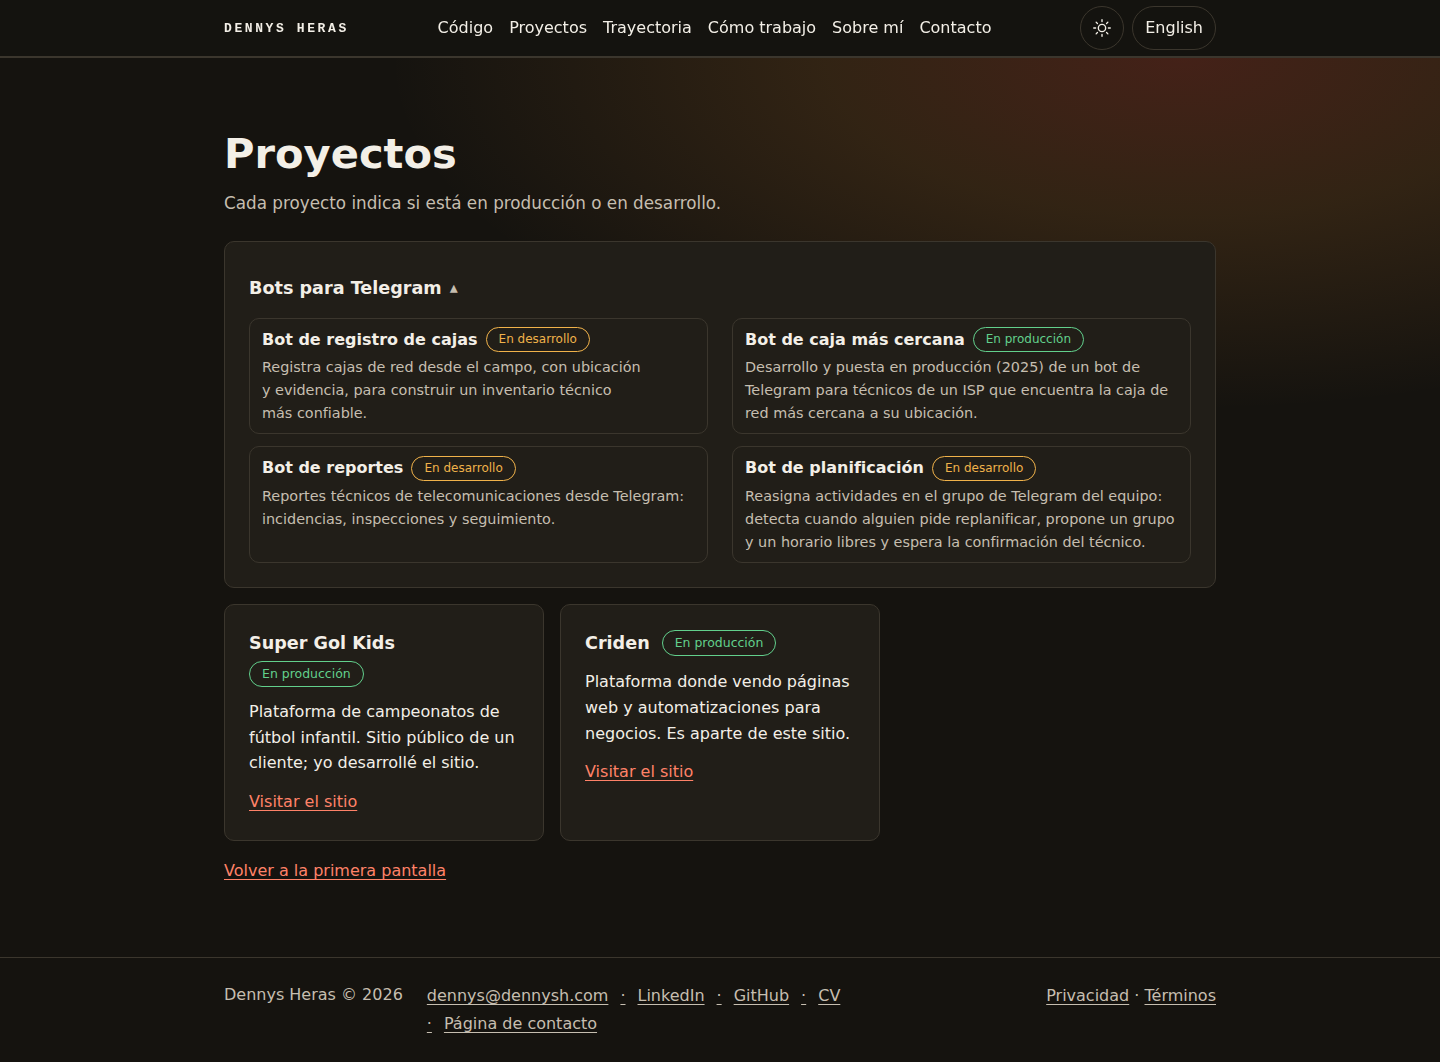
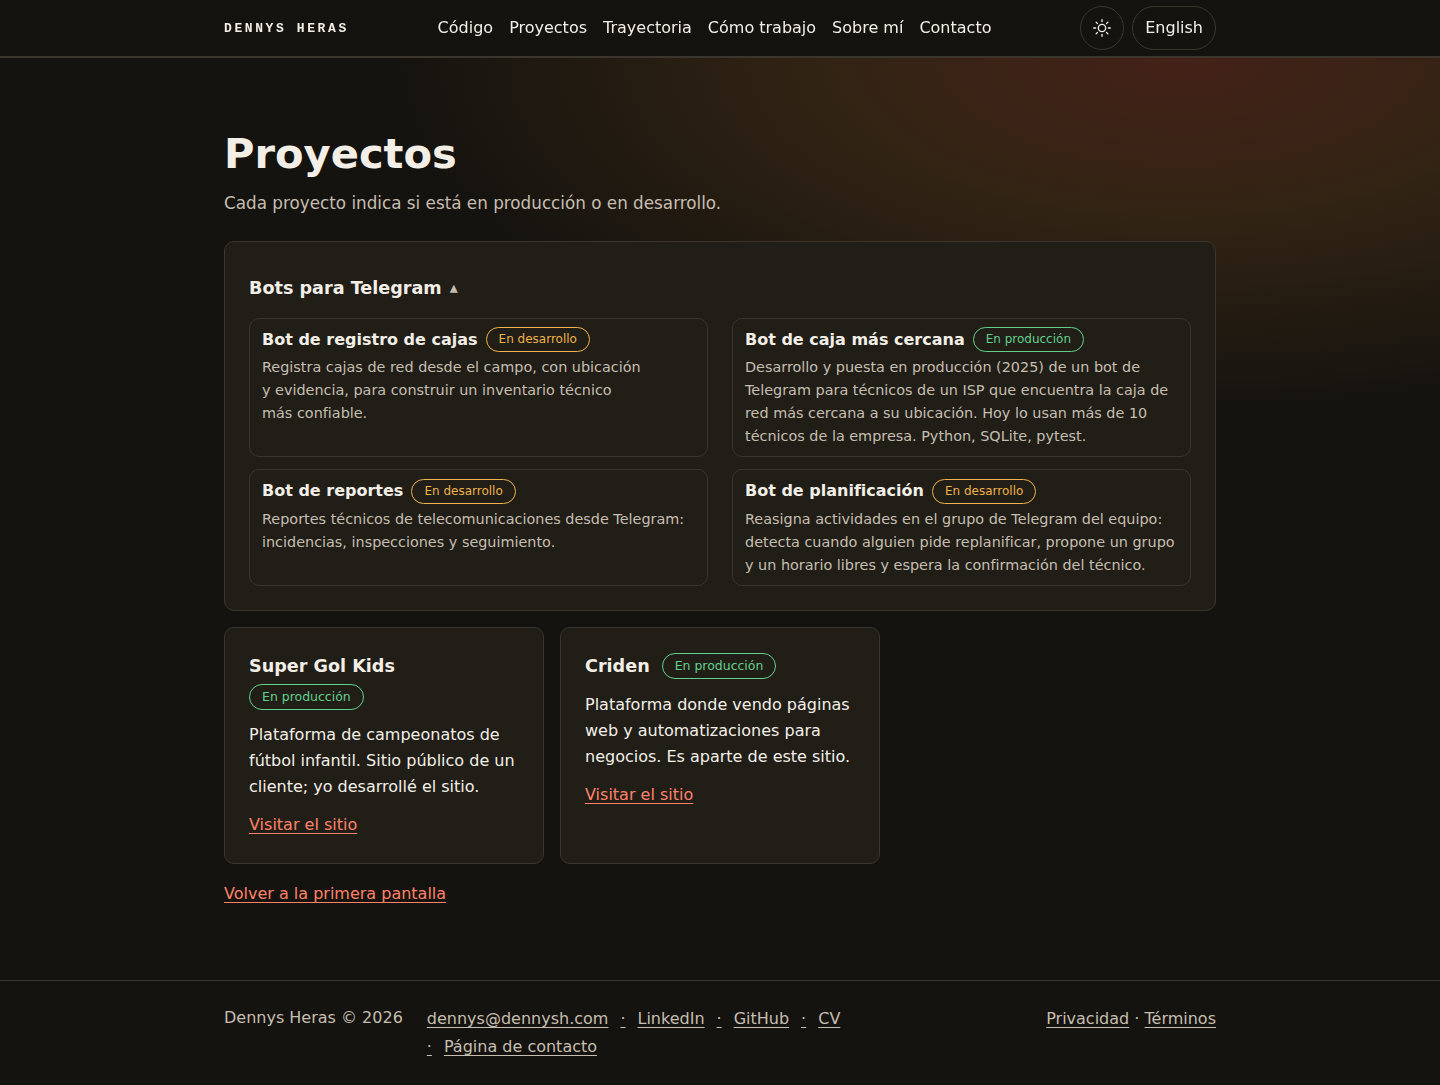
✏ texto: Proyectos muestra el texto completo de cada bot (dato de los técnicos) y «de IA»/«AI agents» no se separan en el titular; pruebas, capturas y resumen

diff --git a/tests/e2e/sections.spec.js b/tests/e2e/sections.spec.js
@@ -91,7 +91,16 @@ test('Proyectos: Bots para Telegram (desplegable), Super Gol Kids y Criden en pr
   await expect(page.locator('main')).not.toContainText(/contable|football manager|f[uú]tbol manager|hardlock|pr[óo]ximamente/i)
 })
 
-test('Bots para Telegram: abierto al cargar con los cuatro bots en orden, un renglón por bot, sin hueco; se cierra y abre con Enter, Espacio y clic sin mover lo de arriba', async ({ page }) => {
+test('Proyectos: el Bot de caja más cercana muestra su texto completo, con el dato de los técnicos (es y en)', async ({ page }) => {
+  for (const [url, frase, bot] of [['/es/proyectos/', 'Hoy lo usan más de 10 técnicos de la empresa.', 'Bot de caja más cercana'], ['/en/projects/', 'Today more than 10 technicians at the company use it.', 'Nearest box bot']]) {
+    await page.goto(url)
+    const li = page.locator('details.bots li', { hasText: bot })
+    await expect(li).toContainText(frase)
+    await expect(li.locator('.bot-text')).toBeVisible()
+  }
+})
+
+test('Bots para Telegram: abierto al cargar con los cuatro bots en orden, con su texto completo, sin hueco; se cierra y abre con Enter, Espacio y clic sin mover lo de arriba', async ({ page }) => {
   await page.goto('/es/proyectos/')
   const d = page.locator('details.bots')
   const items = d.locator('li strong')
@@ -107,7 +116,7 @@ test('Bots para Telegram: abierto al cargar con los cuatro bots en orden, un ren
     expect(badge.y).toBeGreaterThanOrEqual(box.y); expect(badge.y + badge.height).toBeLessThanOrEqual(box.y + box.height)
   }
   await expect(d.locator('li').nth(3)).toContainText('Reasigna actividades en el grupo de Telegram del equipo')
-  for (const t of await d.locator('.bot-text').allTextContents()) expect(t.split(/[.!?]\s/).length).toBe(1) // un renglón (una frase) por bot
+  await expect(d.locator('li').nth(1).locator('.bot-text')).toContainText('Hoy lo usan más de 10 técnicos de la empresa.') // en Proyectos cada bot muestra su texto completo (la vista previa de la portada sigue en una línea)
   // la tarjeta ocupa la fila entera: ninguna tarjeta vecina queda más baja que su contenido
   const cards = await page.locator('.cards > .card').evaluateAll((els) => els.map((e) => { const r = e.getBoundingClientRect(); return { x: r.x, w: r.width, h: r.height } }))
   expect(cards[0].w).toBeGreaterThan(cards[1].w)

diff --git a/tests/unit/first-screen.test.js b/tests/unit/first-screen.test.js
@@ -20,7 +20,7 @@ describe('primera pantalla: marcado sin JavaScript (TH11, AC-H2, AC-H6)', () => 
 
     it(`(${lang}) un solo h1: la frase única, sin titular; y las dos líneas del perfil`, () => {
       expect(out.match(/<h1\b/g)).toHaveLength(1)
-      expect(out).toContain(`<h1 id="hero-h">${esc(c.home.phrase)}</h1>`)
+      expect(out).toContain(`<h1 id="hero-h">${esc(c.home.phrase).replace(' de IA', ' de\u00a0IA').replace('AI agents', 'AI\u00a0agents')}</h1>`)
       expect(out).not.toContain(esc(c.hero.thesis))
       for (const t of c.home.tagline) expect(out).toContain(esc(t))
     })
@@ -28,11 +28,13 @@ describe('primera pantalla: marcado sin JavaScript (TH11, AC-H2, AC-H6)', () => 
       expect(c.home.phrase).toBe(lang === 'es' ? 'Software, automatizaciones, bots y agentes de IA para empresas.' : 'Software, automation, bots and AI agents for businesses.')
       expect(c.home.kicker).toBe(lang === 'es' ? 'Un poco sobre mí' : 'A little about me')
       expect(c.home.cta).toBe(lang === 'es' ? 'Escríbeme' : 'Write to me')
-      const at = (t) => out.indexOf(esc(t))
+      const nb = (t) => t.replace(' de IA', ' de\u00a0IA').replace('AI agents', 'AI\u00a0agents') // «de IA» / «AI agents» no se separan entre líneas
+      const at = (t) => out.indexOf(esc(nb(t)))
       expect(out).toContain(`<p class="kicker">${esc(c.home.kicker)}</p><h1 id="hero-h">`)
+      expect(out).toMatch(lang === 'es' ? /agentes de\u00a0IA/ : /AI\u00a0agents/)
       expect(at(c.home.kicker)).toBeLessThan(at(c.home.phrase))
       expect(at(c.home.phrase)).toBeLessThan(at(c.home.tagline[0]))
-      expect(out.split(esc(c.home.phrase)).length - 1).toBe(1) // la propuesta se lee una sola vez
+      expect(out.split(esc(nb(c.home.phrase))).length - 1).toBe(1) // la propuesta se lee una sola vez
       expect(out).not.toContain('class="offer"')
       expect(out).toContain(`<a class="btn btn-primary first-cta" href="${pagePaths[lang].contact}">${esc(c.home.cta)}</a>`)
       expect(out).not.toContain('mailto:') // el inicio sigue sin mostrar el correo (checkPrerender)

diff --git a/src/components/TelegramBots.jsx b/src/components/TelegramBots.jsx
@@ -4,7 +4,8 @@ import { site } from '../content/site.js'
 // "Bots para Telegram" (correcciones 2, D2): un solo elemento que encapsula los bots. <details> funciona sin JavaScript, con teclado y con lector
 // de pantalla. Lista en el orden del spec; una línea por bot y solo el estado que consta (los que no lo tienen no muestran ninguno).
 // `open`: en la tarjeta de Proyectos los bots se ven abiertos desde el principio (críticos 2); en la vista previa de la portada siguen cerrados.
-// Un renglón por bot: la primera frase de su texto (solo texto que ya existe; el que no tiene texto muestra solo el nombre).
+// Vista previa (cerrada): un renglón por bot, la primera frase de su texto. En la página Proyectos (`open`) se muestra el texto completo
+// (así se ve «Hoy lo usan más de 10 técnicos de la empresa.») (solo texto que ya existe; el que no tiene texto muestra solo el nombre).
 const oneLine = (t) => (t ? (t.match(/^.*?[.!?](?=\s|$)/)?.[0] ?? t) : '')
 export default function TelegramBots({ lang, group, heading = false, open = false }) {
   const w = site[lang].work
@@ -16,7 +17,7 @@ export default function TelegramBots({ lang, group, heading = false, open = fals
         {group.bots.map((b) => (
           <li key={b.id} data-bot={b.id}>
             <span className="bot-head"><strong>{b.title}</strong>{b.status && <span className={`badge badge-${b.status}`}>{w.status[b.status]}</span>}</span>
-            {b.text && <span className="bot-text">{oneLine(b.text)}</span>}
+            {b.text && <span className="bot-text">{open ? b.text : oneLine(b.text)}</span>}
           </li>
         ))}
       </ol>

diff --git a/tests/unit/pages.test.js b/tests/unit/pages.test.js
@@ -160,7 +160,7 @@ describe('el inicio es solo la primera pantalla (C4/C5)', () => {
     for (const lang of ['en', 'es']) {
       const out = renderToString(React.createElement(Site, { lang }))
       expect(out).not.toMatch(/<footer|<section id="(demo|factory|governance|work|skills|journey|criden|contact)"/)
-      expect(out).toContain(`<h1 id="hero-h">${esc(site[lang].home.phrase)}</h1>`)
+      expect(out).toContain(`<h1 id="hero-h">${esc(site[lang].home.phrase).replace(' de IA', ' de\u00a0IA').replace('AI agents', 'AI\u00a0agents')}</h1>`)
       expect(out.length).toBeLessThan(40_000) // el inicio mide una pantalla, no las ≈5800 px de antes
     }
   })
@@ -290,4 +290,13 @@ describe('textos llanos (2026-11-15)', () => {
     expect(site.es.home.panels.code.note).toBe('Lo que sé hacer, las reglas que sigo al trabajar con IA y un ejemplo de auditoría para verlo en la práctica.')
     expect(site.en.home.panels.code.note).toBe('What I can do, the rules I follow when working with AI, and an audit example to see it in practice.')
   })
+})
+
+describe('Proyectos muestra el texto completo de cada bot (no solo la primera frase)', () => {
+  for (const [lang, frase] of [['es', 'Hoy lo usan más de 10 técnicos de la empresa.'], ['en', 'Today more than 10 technicians at the company use it.']]) {
+    it(`(${lang}) el Bot de caja más cercana incluye «${frase}»`, () => {
+      const out = render(ProjectsPage, lang)
+      expect(out).toContain(esc(frase))
+    })
+  }
 })

diff --git a/src/home/FirstScreen.jsx b/src/home/FirstScreen.jsx
@@ -201,7 +201,7 @@ export default function FirstScreen({ lang }) {
         </nav>
         <div className="phrase">
           <p className="kicker">{h.kicker}</p>
-          <h1 id="hero-h">{h.phrase}</h1>
+          <h1 id="hero-h">{h.phrase.replace(' de IA', ' de\u00a0IA').replace('AI agents', 'AI\u00a0agents')}</h1>
           <p className="tagline">{h.tagline[0]}<br />{h.tagline[1]}</p>
           <a className="btn btn-primary first-cta" href={pagePaths[lang].contact}>{h.cta}</a>
         </div>

diff --git a/02-DOCS/resumen-criticos4-2026-11-15.md b/02-DOCS/resumen-criticos4-2026-11-15.md
@@ -23,3 +23,11 @@ Vitest completo: 1091 pasan. E2E (proyecto mocked, conjunto completo): 213 pasan
 ## Qué no se pudo / dudas
 - No corrí el proyecto «real» de Playwright (necesita wrangler/D1) ni Lighthouse; el cambio no toca el formulario.
 - **Dudas para Dennys:** (a) ¿actualizar title/meta/og de la portada a la nueva propuesta? (b) El retrato móvil en 360x640 queda más pequeño para dejar la franja del botón. (c) «agentes de IA» puede partirse entre líneas en 390 px (sin palabras sueltas, pero «IA» abre línea); arreglarlo exigiría un espacio duro dentro del texto aprobado.
+
+## Seguimiento (commit nuevo, sin push)
+
+1. **Proyectos: el texto completo de cada bot.** En la página Proyectos (modo abierto) cada bot muestra ahora su texto entero (`TelegramBots.jsx`, prop `open`); ya se lee «Hoy lo usan más de 10 técnicos de la empresa.» (en: «Today more than 10 technicians at the company use it.»). La vista previa de la portada sigue en una línea. Comprobado en `dist/es/proyectos/` y `dist/en/projects/`: ambos contienen la frase. Pruebas: unitaria en `tests/unit/pages.test.js` y e2e en `tests/e2e/sections.spec.js` (es y en). Se cambió la e2e que exigía «un renglón por bot».
+2. **Titular sin cortar «de IA».** Al pintar el h1 (`FirstScreen.jsx`) se usa un espacio de no separación: «agentes de IA» (es) y «AI agents» (en). El texto de `site.js` y el visible no cambian. Medido por líneas a 390x844, 360x640 y 1440x900: es «Software, / automatizaciones, / bots y agentes de IA / para empresas.»; en «Software, automation, / bots and AI agents / for businesses.»; sin palabras sueltas. Pruebas unitarias ajustadas y una nueva que exige el espacio duro.
+3. **Capturas regeneradas** (misma carpeta): `proyectos-{es,en}-{m390,d1440}.png` y `portada-es-{oscuro,claro}-{m390,m360,d1440}.png`.
+
+Pruebas: vitest 1093 pasan; build OK; e2e (mocked) de secciones, páginas, portada, móvil y critica-1 pasan. La duda (c) de arriba queda resuelta.
